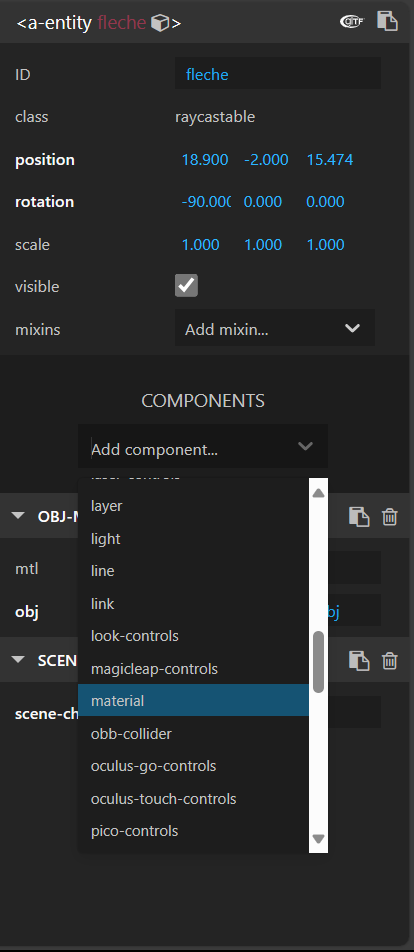
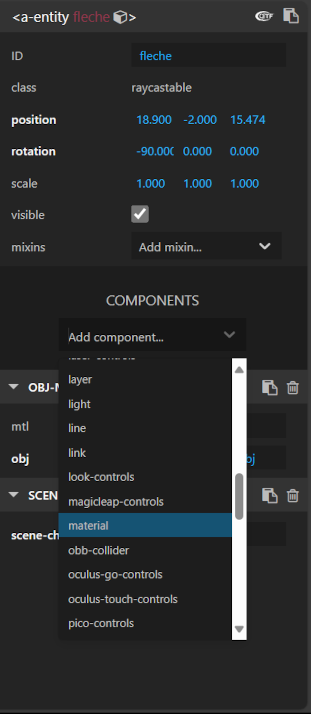
maj

diff --git a/guide1/README.md b/guide1/README.md
@@ -186,8 +186,8 @@ interesse c'est la couleur
 
 A votre droite un menu c'est ouvert a fin de modifier la fleche, on va selection le menu deroulant ***Add composant*** on chercher ***Material***
 
-<img src="partie2/resources/image/imagegenerique/ajoutcomposant.png" alt="ajout composant" height="50%" width="auto">
-![*ajout composant*](<partie2/resources/image/imagegenerique/ajoutcomposant.png>)
+<img src="partie2/resources/image/imagegenerique/ajoutcomposant.png" alt="ajout composant" height="50%" width="50%">
+
 
 ensuite on peut cliquer sur ***Material*** une ligne avec idiquer ***color*** va nous permetre de changer la couleur, on clique sur le carré blanc et a l'aide du curseur on va selectionner la couleur que l'on veut.
 
